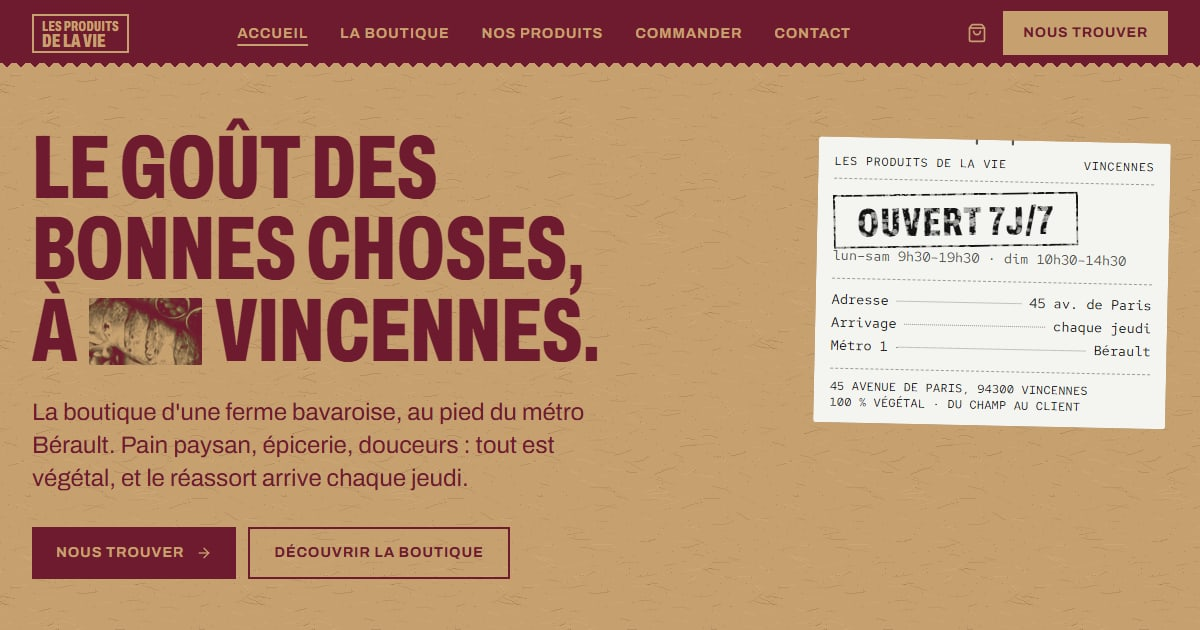
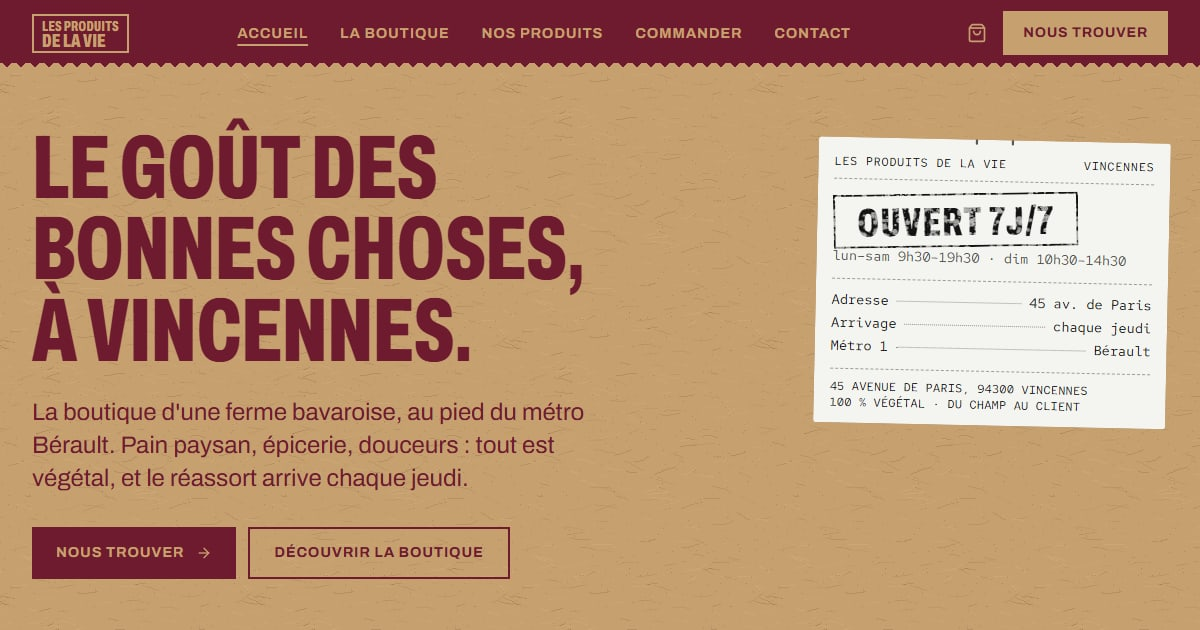
Accueil : titre sans la vignette de pain
« A Vincennes. » redevient une simple ligne de texte ; image de partage regeneree.

Changed region(s): [[0.0617, 0.4524, 0.5242, 0.6032]]

diff --git a/src/components/home/Hero.tsx b/src/components/home/Hero.tsx
@@ -1,4 +1,3 @@
-import Image from "next/image";
 import { ArrowRight } from "lucide-react";
 import { images } from "@/data/images";
 import { store } from "@/data/store";
@@ -19,14 +18,7 @@ export function Hero() {
             <div className="lg:col-span-8">
               <h1 id="hero-titre" className="display text-display">
                 <span className="block">Le goût des bonnes choses,</span>
-                <span className="inline-flex items-center whitespace-nowrap">
-                  À
-                  {/* Vignette imprimée entre les deux mots. */}
-                  <span aria-hidden="true" className="printed relative mx-[0.14em] inline-block h-[0.74em] w-[1.25em] rounded-[2px]">
-                    <Image src={images.hero.src} alt="" fill sizes="120px" className="object-cover" />
-                  </span>
-                  Vincennes.
-                </span>
+                <span className="block">À Vincennes.</span>
               </h1>
               <p className="mt-6 max-w-xl text-lead leading-snug">
                 La boutique d&apos;une ferme bavaroise, au pied du métro {store.access[0].station}. Pain paysan, épicerie, douceurs&nbsp;: tout
